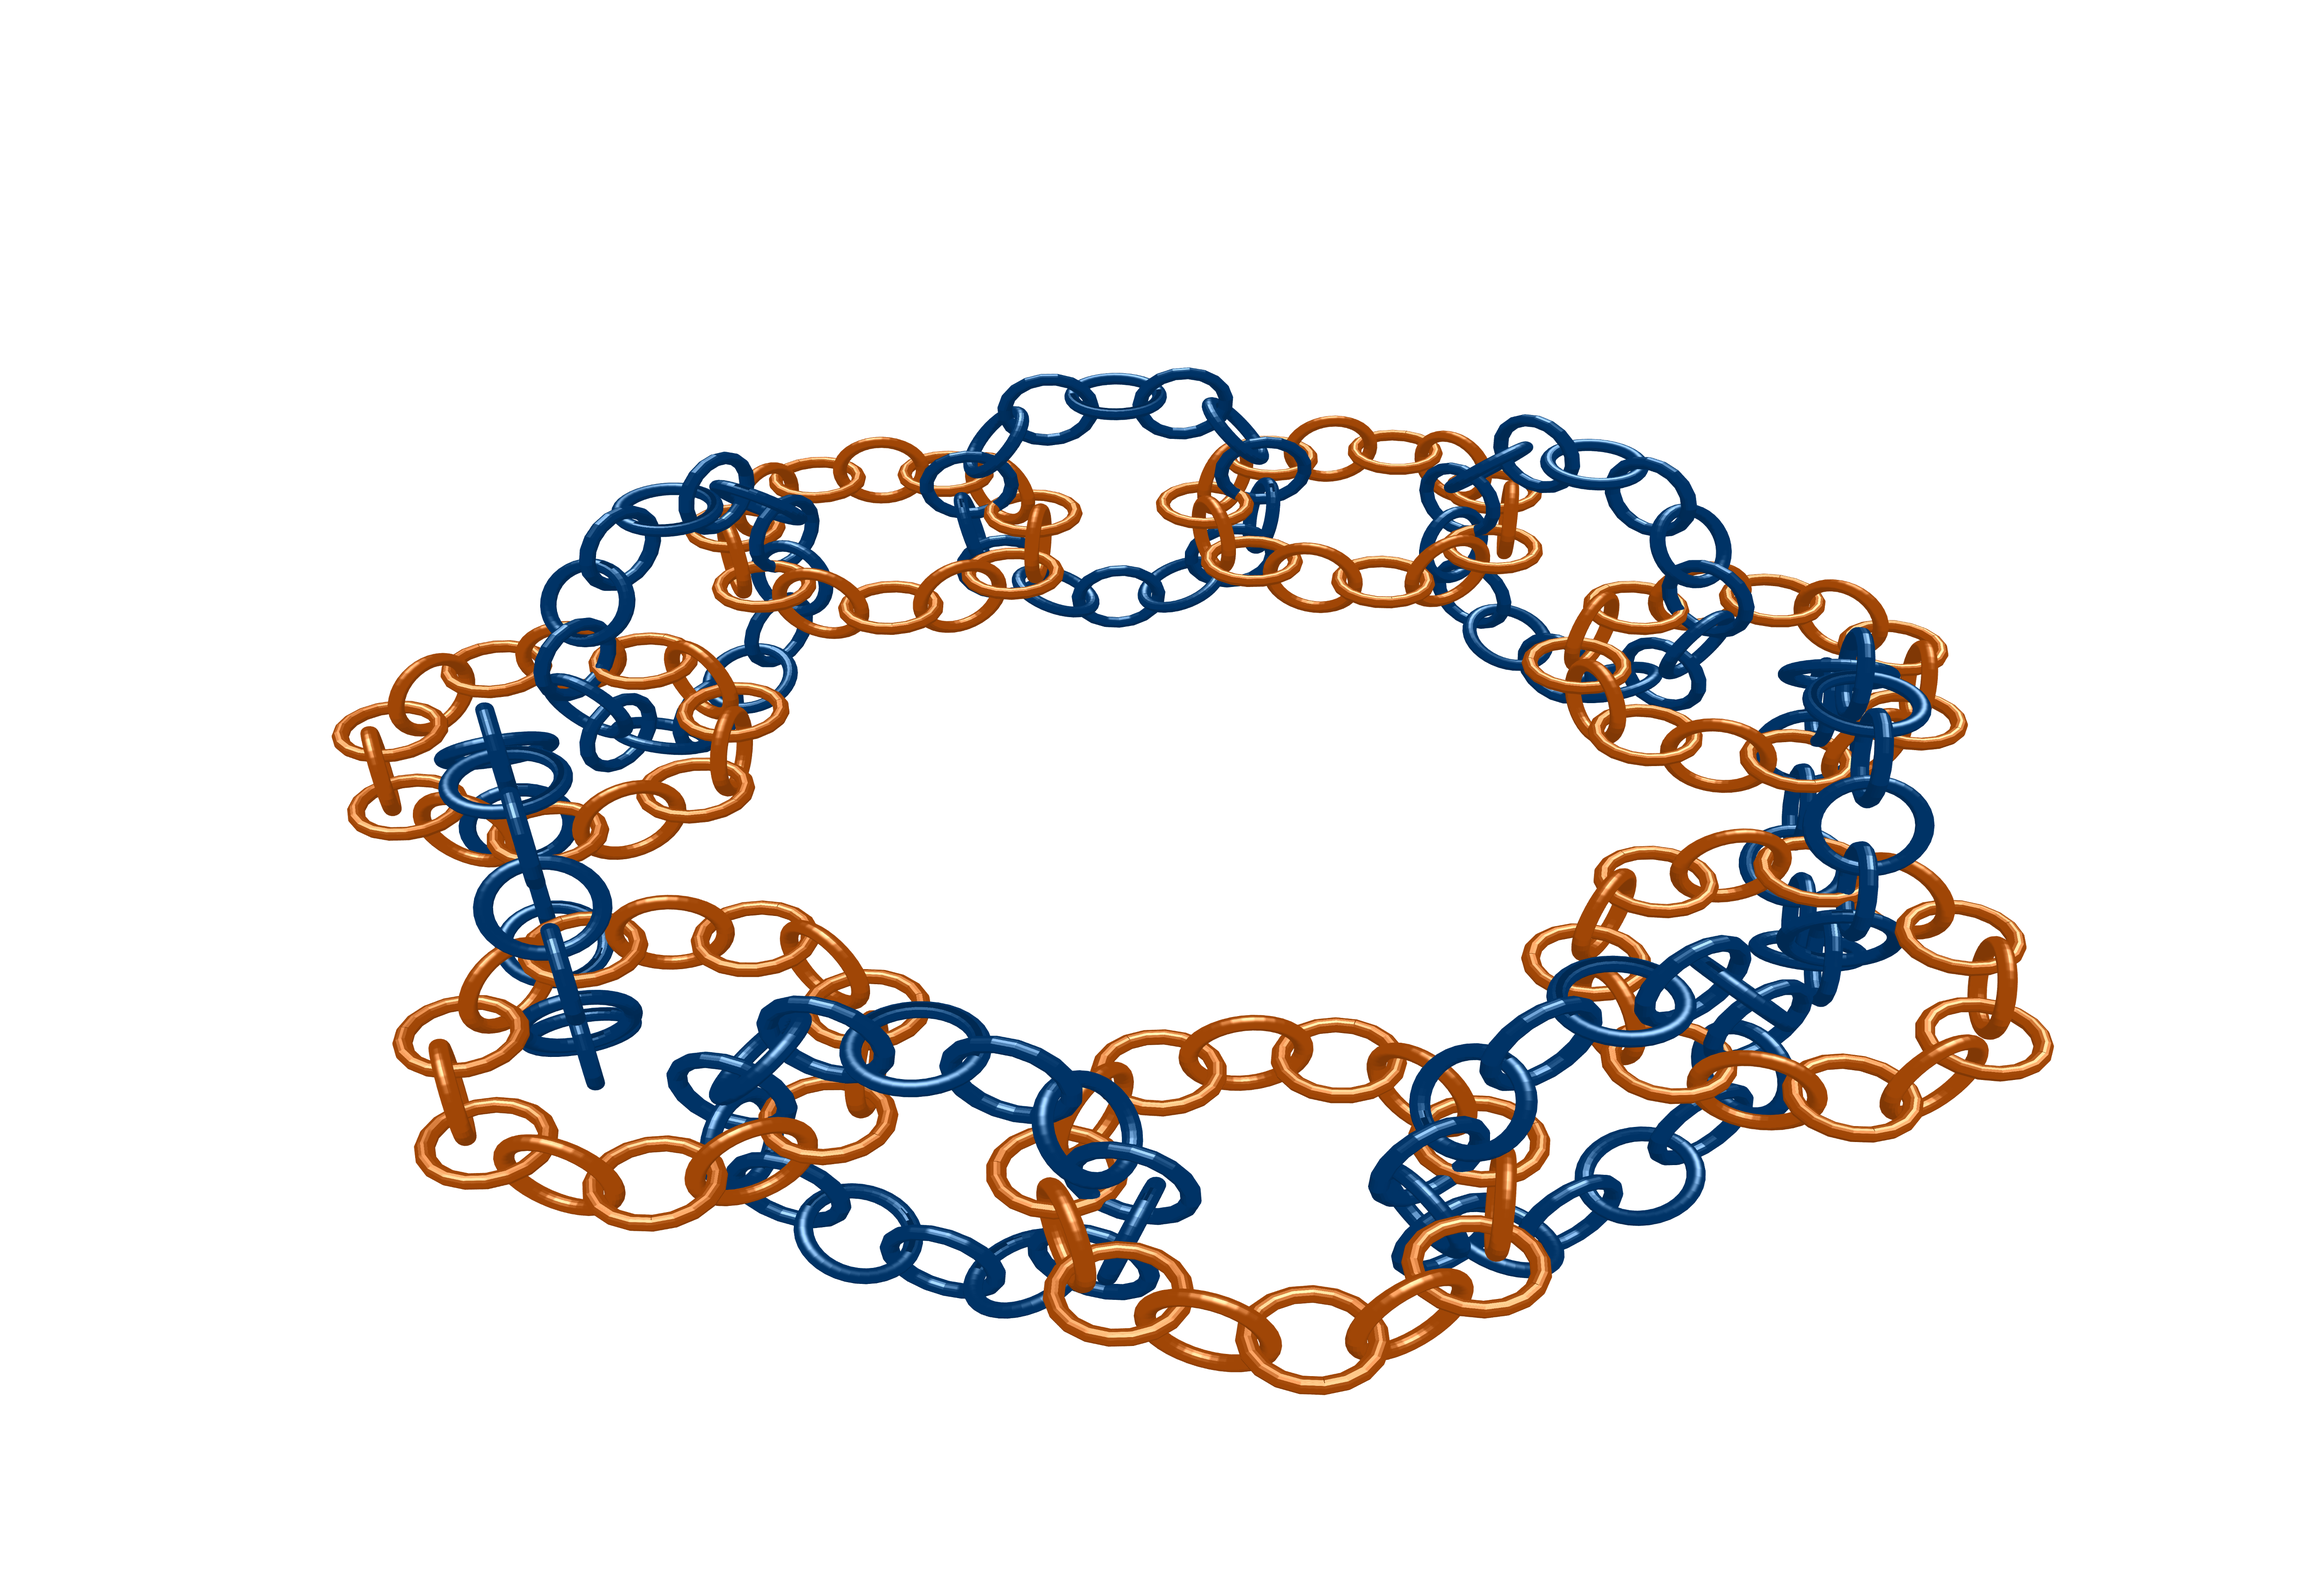
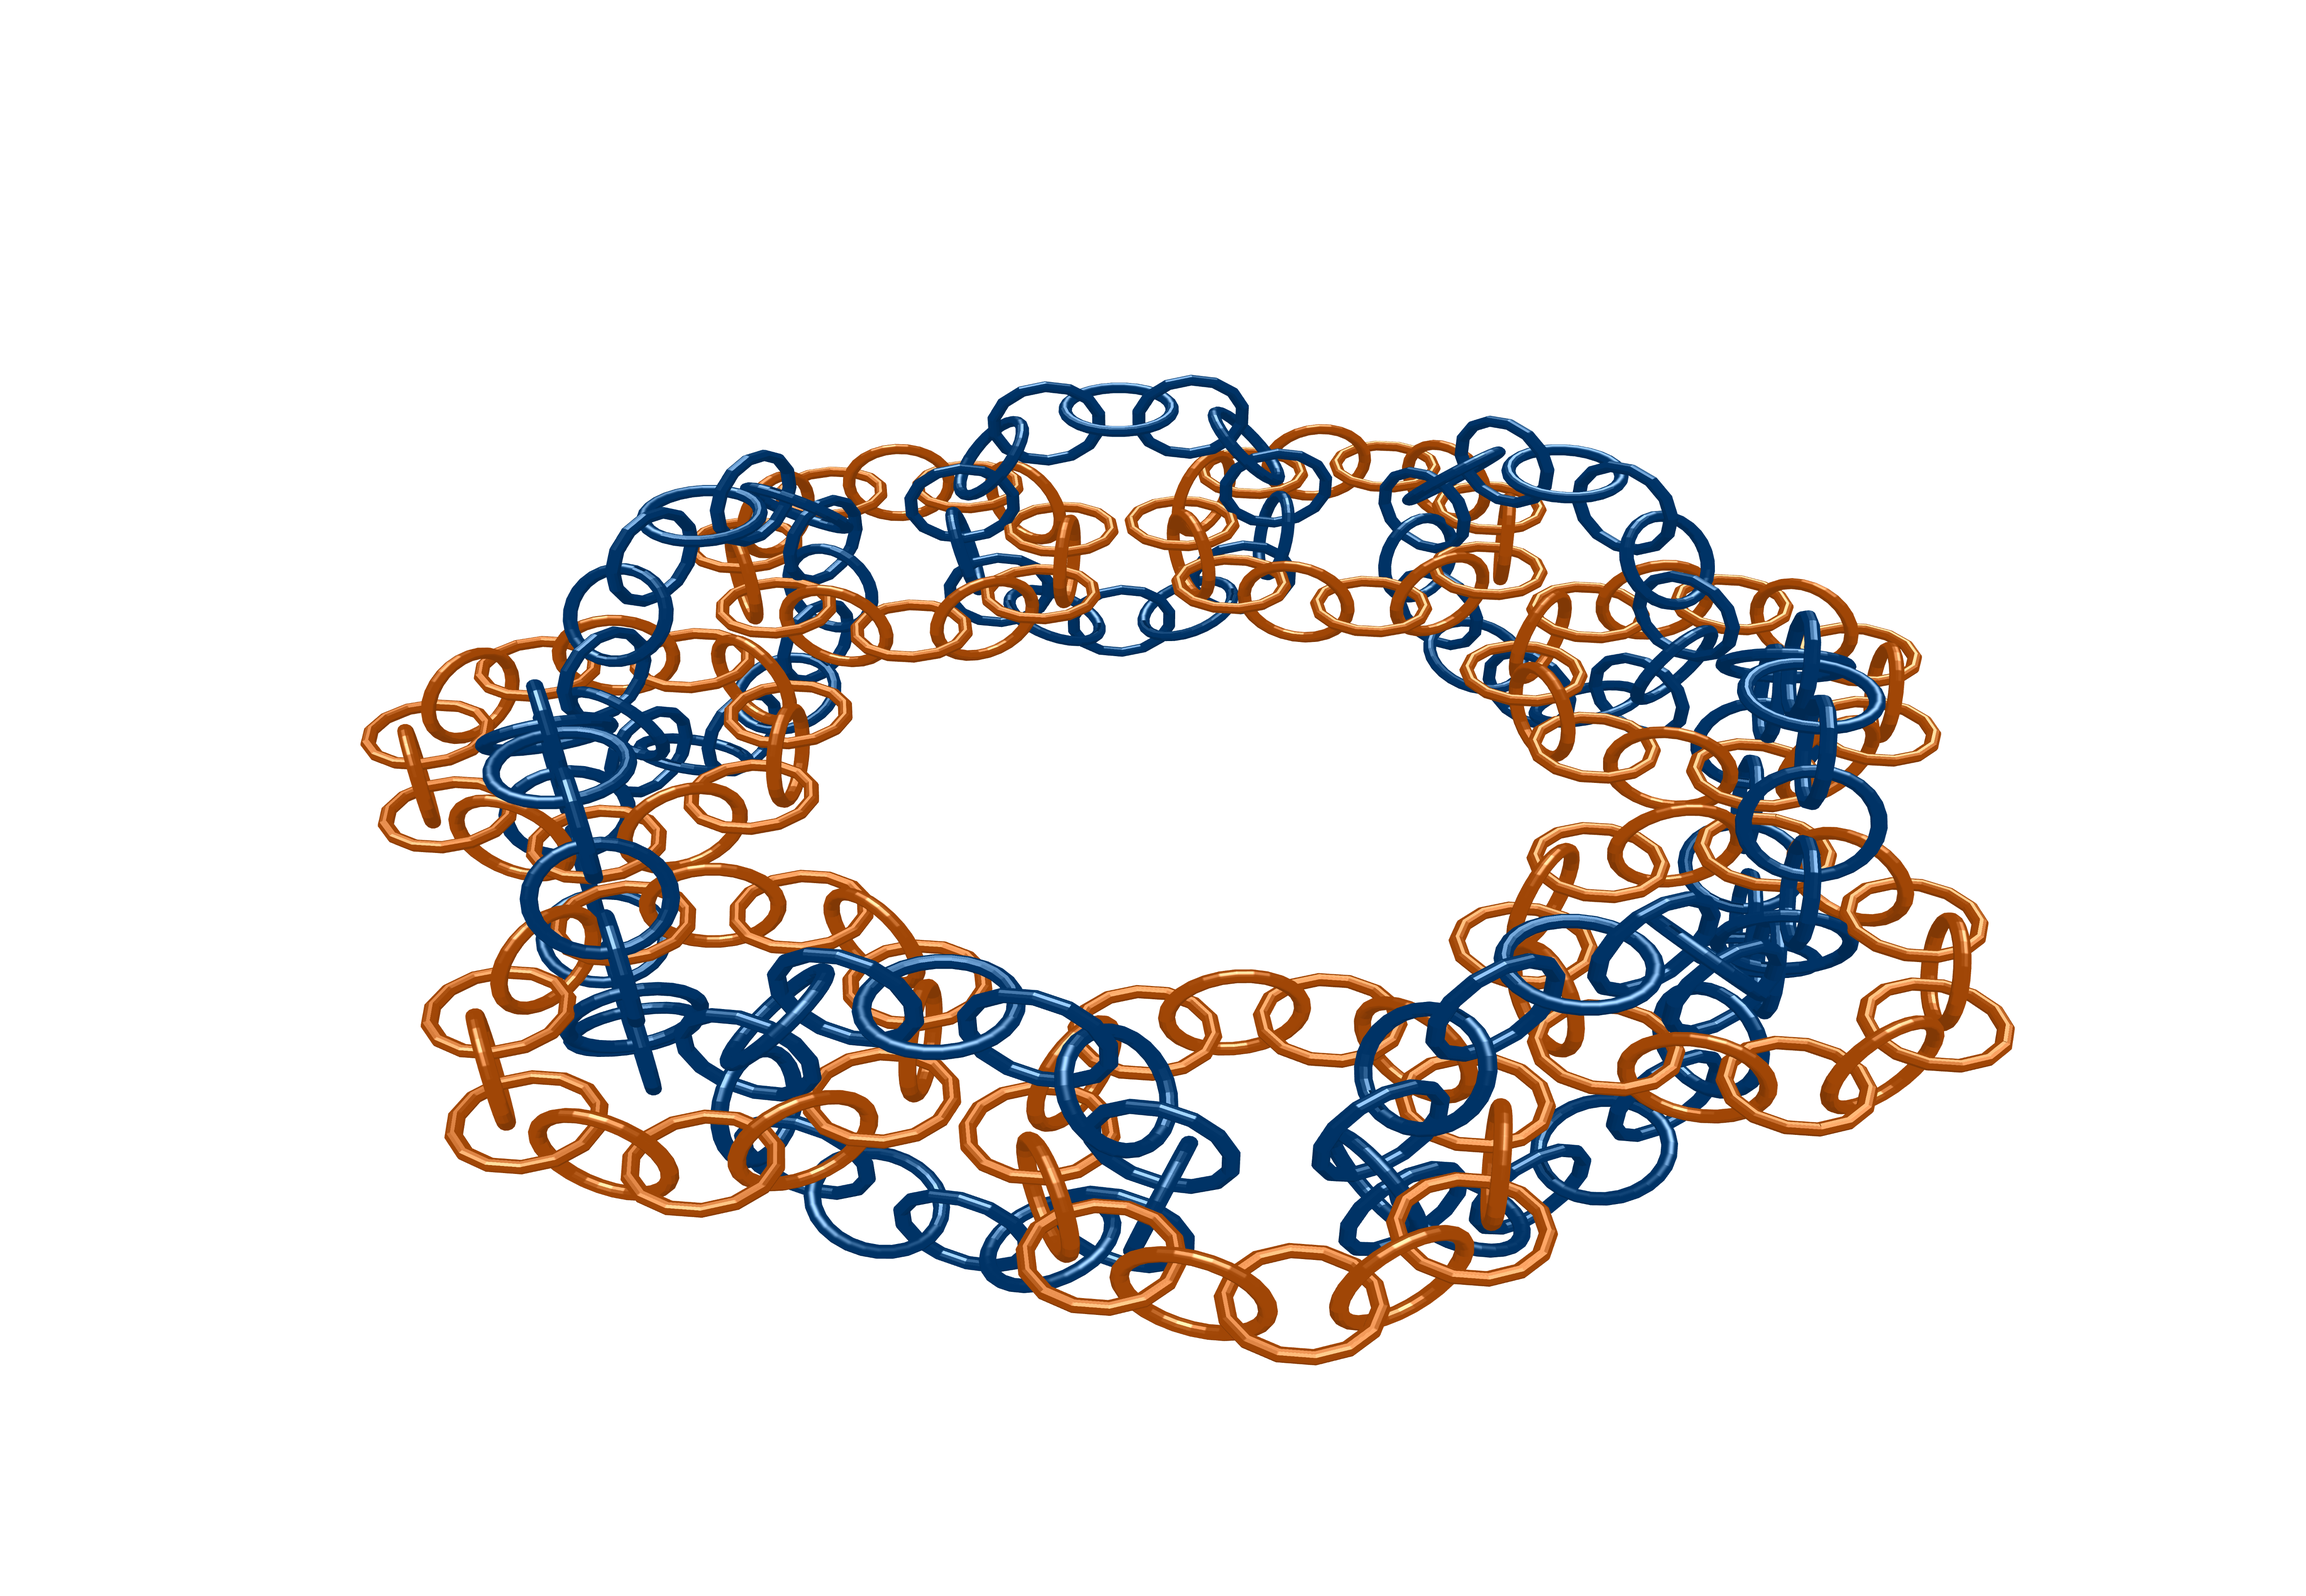
fix spacing

Changed region(s): [[0.1246, 0.2178, 0.9035, 0.8711]]

diff --git a/Antoines_NecklaceClass.py b/Antoines_NecklaceClass.py
@@ -1,7 +1,7 @@
 import numpy as np
 import plotly.graph_objects as go
 class AntoineNecklace:
-    def __init__(self, N_l1=14, N_l2=14, N_l3 = 10):
+    def __init__(self, N_l1=14, N_l2=14, N_l3 = 12):
         # Attributes
         self.N_l1 = N_l1
         self.N_l2 = N_l2
@@ -31,8 +31,11 @@ class AntoineNecklace:
         self.background_grid_color = "white"
 
     # INTERNAL METHODS
-    def _get_small_tori_radius(self,N, parent_C):
-        small_c = (parent_C*np.pi)/(.8*N)
+    def _get_small_tori_radius(self,N, parent_C, construct_l2 = True):
+        if construct_l2 == False:
+            small_c = (parent_C*np.pi)/(.8*N)
+        else:
+            small_c = (parent_C*np.pi)/(.7*N)
         return small_c
     
 
@@ -55,7 +58,7 @@ class AntoineNecklace:
         theta = np.linspace(0, 2*np.pi, self.mesh_res)
         phi = np.linspace(0, 2*np.pi, self.mesh_res)
         theta, phi = np.meshgrid(theta, phi)
-        small_a = level_zero_toriRadius/6
+        small_a = level_zero_toriRadius/7.5
         x = (level_zero_toriRadius + small_a * np.cos(theta)) * np.cos(phi)
         y = (level_zero_toriRadius + small_a * np.cos(theta)) * np.sin(phi)
         z = small_a * np.sin(theta)
@@ -73,8 +76,8 @@ class AntoineNecklace:
         bottom_tori = []
         top_tori = []
         side_tori = []
-        small_l1_c = self._get_small_tori_radius(self.N_l1, parent_l1_C)
-        small_a = small_l1_c/6
+        small_l1_c = self._get_small_tori_radius(self.N_l1, parent_l1_C, construct_l2 = False)
+        small_a = small_l1_c/7.5
 
         quarter_N = self.N_l1 // 4
         if (construct_l2_upper == False) and (construct_l2_lower == True):
